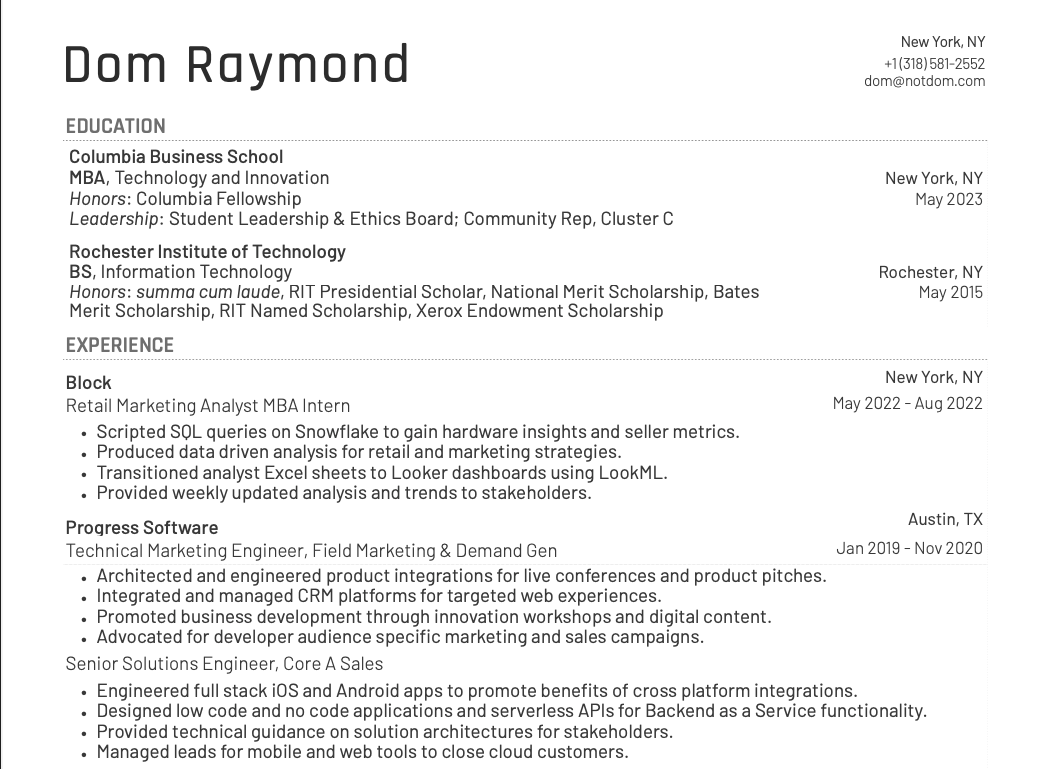
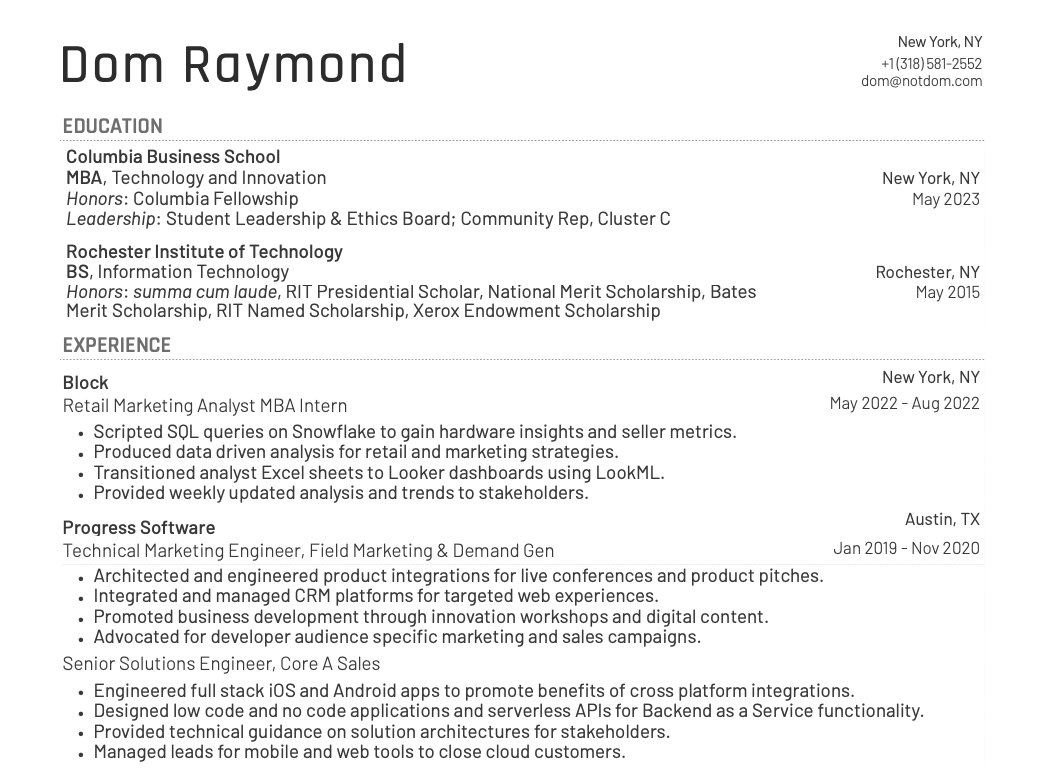
new style changes

diff --git a/app/components/Section/Section.js b/app/components/Section/Section.js
@@ -38,31 +38,31 @@ const Section = (props) => (
         <div className="desc dev">These are some projects that I have worked on, but they are not all of them! I am working on bringing more to this site both in the terms of content and design. Check them out and if they are linked, go check out the live site.</div>
         <br />
       </div>
-      <div className="minititle about">Web</div>
+      <div className="minititle about">Responsive Web</div>
 
       <span className="litems">
-        <WorkItem title="Charles &amp; Colvard" link="https://www.charlesandcolvard.com/" info="One of the more complex sites I have worked on. Not because it is a Magento 2 site (that is an inside joke about Magento 2), but because of it’s many pages and products. They are an innovative company selling moissanite and it was a pleasure staring at their jewelry while I coded the front end." imgs={["https://drive.google.com/uc?id=1Tz0DTOP9hy6gH3HYSVo5F2I11xmBjqj4","https://drive.google.com/uc?id=1FYR0iyHmm5u5QLUnVGbx98kk87CoI4cG"]}/>
-        <WorkItem title="Cree" link="https://www.cree.com/" info="One of the first large enterprise websites I worked on. Many developers and designers spent many hours creating this and their regional and division sites. Custom Frontend on a Mangento 1 backend. " imgs={["https://drive.google.com/uc?id=1YqWtYFUmpX641sJeXex6xx2032k8oarA","https://drive.google.com/uc?id=1nSnJUh_90owT3q9PWTH4F7De8oBj_pru"]}/>
-        <WorkItem title="Rivers Agency" link="https://riversagency.com/" info="This was my employer before Oracle. Many of the sites you see on this site were created there. One of the last projects I worked on while I was there was coding the revamp of the site. Custom frontend on top of a Wordpress backend." imgs={["https://drive.google.com/uc?id=1VLHkx4uq5T7g-dYUx7367NQoH4Vus8SF","https://drive.google.com/uc?id=1h12qi7T2rsfW5Usd2zHxrU_gCAAr9KQg"]}/>
-        <WorkItem title="Smarties Store" link="https://smartiesstore.com/" info="I love this candy, so I was very excited when I got to work on it. The ladies at smarties needed a new simpler site to sell their wares. It has a Shopify backend and I created the category and product pages as well as many other random ones." imgs={["https://drive.google.com/uc?id=1_wiR7jrLZNMCtcdbI8FfGk_JoXbi8fZH","https://drive.google.com/uc?id=1PybQLFx8TjoHMQYInfJaQiDHwwNqr_yW"]}/>
-        <WorkItem title="NAPSACC" link="https://gonapsacc.org/" info="This site has a backend that I cannot recall, but I do know that it was old. With a nonprofit sized budget we revamped the site and made it more responsive on mobile." imgs={["https://drive.google.com/uc?id=1BZaua050PKpYu4guq4o0EB5KJeLHst6w","https://drive.google.com/uc?id=1wx8w5Zm9mwa7N0tLg0avrVWUK6zCbKKt"]}/>
-        <WorkItem title="Fantastic Sams" link="https://www.fantasticsams.com/" info="A site on top of Drupal that needed a little of TLC. I worked mainly on UI tweaks and bug fixes to make the site more functional and responsive. " imgs={["https://drive.google.com/uc?id=1ZzpGQmrDr8892FWAGM0OuWLBaNEnq1cq","https://drive.google.com/uc?id=1nbjXHcPW8Tva81uCNnHD9D9AY7ejUJq1"]}/>
+        <WorkItem title="Charles &amp; Colvard" link="https://www.charlesandcolvard.com/" info="One of the more complex sites I have worked on. Not because it is a Magento 2 site (that is an inside joke about Magento 2), but because of it’s many pages and products. They are an innovative company selling moissanite and it was a pleasure staring at their jewelry while I coded the front end." imgs={["https://drive.google.com/thumbnail?id=1Tz0DTOP9hy6gH3HYSVo5F2I11xmBjqj4&sz=w1000","https://drive.google.com/thumbnail?id=1FYR0iyHmm5u5QLUnVGbx98kk87CoI4cG&sz=w1000"]}/>
+        <WorkItem title="Cree" link="https://www.cree.com/" info="One of the first large enterprise websites I worked on. Many developers and designers spent many hours creating this and their regional and division sites. Custom Frontend on a Mangento 1 backend. " imgs={["https://drive.google.com/thumbnail?id=1YqWtYFUmpX641sJeXex6xx2032k8oarA&sz=w1000","https://drive.google.com/thumbnail?id=1nSnJUh_90owT3q9PWTH4F7De8oBj_pru&sz=w1000"]}/>
+        <WorkItem title="Rivers Agency" link="https://riversagency.com/" info="This was my employer before Oracle. Many of the sites you see on this site were created there. One of the last projects I worked on while I was there was coding the revamp of the site. Custom frontend on top of a Wordpress backend." imgs={["https://drive.google.com/thumbnail?id=1VLHkx4uq5T7g-dYUx7367NQoH4Vus8SF&sz=w1000","https://drive.google.com/thumbnail?id=1h12qi7T2rsfW5Usd2zHxrU_gCAAr9KQg&sz=w1000"]}/>
+        <WorkItem title="Smarties Store" link="https://smartiesstore.com/" info="I love this candy, so I was very excited when I got to work on it. The ladies at smarties needed a new simpler site to sell their wares. It has a Shopify backend and I created the category and product pages as well as many other random ones." imgs={["https://drive.google.com/thumbnail?id=1_wiR7jrLZNMCtcdbI8FfGk_JoXbi8fZH&sz=w1000","https://drive.google.com/thumbnail?id=1PybQLFx8TjoHMQYInfJaQiDHwwNqr_yW&sz=w1000"]}/>
+        <WorkItem title="NAPSACC" link="https://gonapsacc.org/" info="This site has a backend that I cannot recall, but I do know that it was old. With a nonprofit sized budget we revamped the site and made it more responsive on mobile." imgs={["https://drive.google.com/thumbnail?id=1BZaua050PKpYu4guq4o0EB5KJeLHst6w&sz=w1000","https://drive.google.com/thumbnail?id=1wx8w5Zm9mwa7N0tLg0avrVWUK6zCbKKt&sz=w1000"]}/>
+        <WorkItem title="Fantastic Sams" link="https://www.fantasticsams.com/" info="A site on top of Drupal that needed a little of TLC. I worked mainly on UI tweaks and bug fixes to make the site more functional and responsive. " imgs={["https://drive.google.com/thumbnail?id=1ZzpGQmrDr8892FWAGM0OuWLBaNEnq1cq&sz=w1000","https://drive.google.com/thumbnail?id=1nbjXHcPW8Tva81uCNnHD9D9AY7ejUJq1"]}/>
 
       </span>
       <br />
-      <div className="minititle about">Apps</div>
+      <div className="minititle about">Mobile Apps</div>
 
       <span className="litems">
-        <WorkItem title="Blender Monitor" info="A large blender company wanted a way to expand their existing capabilities for corporate customers by integrating the Cloud into their blenders. By connecting the blenders to the cloud they can track a number of metrics and provide predictive analysis for maintenance and other interests." imgs={["https://drive.google.com/uc?id=1KpdhEDU4iPpokMzPklvYlX_ikIphZPvY","https://drive.google.com/uc?id=1AlUcEc_7lmSvaA6qCIiP0ARtpNvl3fC1","https://drive.google.com/uc?id=1HZk6PIHAUtpIoP6d0-_4qQs63c8MI0J6","https://drive.google.com/uc?id=1FGhaUwx4uWkmD-M8NgYDtYYUJYhYi6bd"]}/>
-        <WorkItem title="Prospect Finder" info="An insurance provider wanted a way for an agent to see all potential clients in a certain area, and see at a glance their potential for buying certain products. The potential was based on analytics from their existing client profiles." imgs={["https://drive.google.com/uc?id=13758RFb8YpbTvBMbWhrR2TNL31Dfyr0W","https://drive.google.com/uc?id=1uttGpED9bjm5THQ_7Uz60Ix0XXQiy3RZ"]}/>
-        <WorkItem title="Chatbot HRM" info="A client wanted an app they could give to managers so the could easily track payments and access human resource management functions. All functionality was initiated through the bot and all transactions were available either through the app or through existing channels." imgs={["https://drive.google.com/uc?id=1Qrq5NqccBcqiBtI8lLsEQNN4W2mUUT7K","https://drive.google.com/uc?id=1wxhlZqW_8UmfiE2F2CgiKto6g9NWD_Qj","https://drive.google.com/uc?id=1u7uQVDiC_9lL4PTiKdWYlx8SbmUSgkiq"]}/>
+        <WorkItem title="Blender Monitor" info="A large blender company wanted a way to expand their existing capabilities for corporate customers by integrating the Cloud into their blenders. By connecting the blenders to the cloud they can track a number of metrics and provide predictive analysis for maintenance and other interests." imgs={["https://drive.google.com/thumbnail?id=1KpdhEDU4iPpokMzPklvYlX_ikIphZPvY","https://drive.google.com/thumbnail?id=1AlUcEc_7lmSvaA6qCIiP0ARtpNvl3fC1","https://drive.google.com/thumbnail?id=1HZk6PIHAUtpIoP6d0-_4qQs63c8MI0J6","https://drive.google.com/thumbnail?id=1FGhaUwx4uWkmD-M8NgYDtYYUJYhYi6bd"]}/>
+        <WorkItem title="Prospect Finder" info="An insurance provider wanted a way for an agent to see all potential clients in a certain area, and see at a glance their potential for buying certain products. The potential was based on analytics from their existing client profiles." imgs={["https://drive.google.com/thumbnail?id=13758RFb8YpbTvBMbWhrR2TNL31Dfyr0W","https://drive.google.com/thumbnail?id=1uttGpED9bjm5THQ_7Uz60Ix0XXQiy3RZ"]}/>
+        <WorkItem title="Chatbot HRM" info="A client wanted an app they could give to managers so the could easily track payments and access human resource management functions. All functionality was initiated through the bot and all transactions were available either through the app or through existing channels." imgs={["https://drive.google.com/thumbnail?id=1Qrq5NqccBcqiBtI8lLsEQNN4W2mUUT7K","https://drive.google.com/thumbnail?id=1wxhlZqW_8UmfiE2F2CgiKto6g9NWD_Qj","https://drive.google.com/thumbnail?id=1u7uQVDiC_9lL4PTiKdWYlx8SbmUSgkiq"]}/>
 
       </span>
       <br />
-      <div className="minititle about">Other</div>
+      <div className="minititle about">Cloud Platforms</div>
 
       <span className="litems">
-        <WorkItem title="IBM Mobile First" info="My first job out of college, I worked on the development team for IBM mobile application building platform. MobileFirst provided a framework that enabled the development, optimization, integration, and management of secure mobile apps. It allowed for experiences on   iOS, Android, Windows, and the Web using capabilities such as development, testing, back-end connections, push notifications, offline mode, update, security, analytics, monitoring, and application publishing." imgs={["https://www.ibm.com/developerworks/community/blogs/5fdcd114-179e-4a1f-be70-3dbcc261a4da/resource/BLOGS_UPLOADED_IMAGES/IBMMobileFirst.png"]}/>
+        <WorkItem title="IBM Mobile First" info="My first job out of college, I worked on the development team for IBM mobile application building platform. MobileFirst provided a framework that enabled the development, optimization, integration, and management of secure mobile apps. It allowed for experiences on   iOS, Android, Windows, and the Web using capabilities such as development, testing, back-end connections, push notifications, offline mode, update, security, analytics, monitoring, and application publishing." imgs={["https://adtmag.com/articles/2016/06/23/~/media/ECG/adtmag/Images/2016/06/mobilefirst_experience.png"]}/>
         <WorkItem title="This site" info="I designed and coded this site myself. With the exception for the websites that goes for the content too. The websites were designed by graphic designers at Rivers Agency, but I had to turn their vision into reality by coding them. I will continue to update the site. I already have a pipeline of content!" imgs={[site]}/>
       </span>
       </Element>
@@ -85,7 +85,7 @@ const Section = (props) => (
 
       </div>
       <span className="litems">
-        <ContactItem title="Contact" info="This is where a info is going fmi."/>
+        <ContactItem title="Contact" info="This is where info is going fmi."/>
       </span>
       </Element>
 

diff --git a/app/components/Section/style.scss b/app/components/Section/style.scss
@@ -1,5 +1,5 @@
 $blue: #57A6F8;
-$green:#387C44;
+$green:#404F36;
 $yellow: #EFD565;
 $orange:#E2A148;
 $red:#EE6A64;
@@ -13,6 +13,7 @@ $mini: 414px;
 
 .section {
   width: 100%;
+  padding-right: 1em;
   //height: 3em;
   display: inline-block;
   flex-flow: row wrap;
@@ -20,11 +21,11 @@ $mini: 414px;
   .title-wrapper{
     width: 100%;
     display: inline-block;
-    //padding-right: 1em;
+    padding-bottom: 1em;
     .title {
-      font-family: 'Rajdhani', Helvetica, Arial, sans-serif;
+      font-family: 'Bungee Shade', Helvetica, Arial, sans-serif;
       font-size: 2.5em;
-      font-weight: 600;
+      font-weight: 400;
       text-align: right;
       color: $green;
     }
@@ -32,7 +33,7 @@ $mini: 414px;
       font-family: 'Barlow', Helvetica, Arial, sans-serif;
       font-size: 1.1em;
       color:darkslategray;
-      font-weight: 600;
+      font-weight: 500;
       text-align: right;
       width: 80%;
       float: right;
@@ -49,11 +50,11 @@ $mini: 414px;
   .minititle {
     display: block;
     font-family: 'Rajdhani', Helvetica, Arial, sans-serif;
-    font-weight: 300;
-    color:$green;
+    font-weight: 800;
+    color:$orange;
     font-size: 1.5em;
     text-align: right;
-    margin: 0.2 0 0 0;
+    margin: .2 0 0 0;
 
   }
 

diff --git a/app/components/WorkItem/style.scss b/app/components/WorkItem/style.scss
@@ -1,5 +1,5 @@
 $blue: #57A6F8;
-$green:#387C44;
+$green:#404F36;
 $yellow: #EFD565;
 $orange:#E2A148;
 $red:#EE6A64;
@@ -14,26 +14,31 @@ $mini: 414px;
   display: flex;
   flex-flow: row wrap;
   position: relative;
-  margin: 2em 0 5em 0;
+  margin: 2em 0 2.5em 0;
+  padding: 0 0 1.5em 0;
+  border-bottom: .1em solid white;
   a{
     text-decoration: none;
   }
   .pwords{
     width: 100%;
-    padding:0.3em 0;
+    padding:1em 0 0 0;
     text-align: right;
     .pheader {
       font-family: 'Rajdhani', Helvetica, Arial, sans-serif;
-      color:$green;
+      padding-right: .1em;
+      color:darkslategray;
       font-weight: 500;
-      font-size: 1.8em;
+      font-size: 2em;
       &:hover{
-        color: $green;
+        color: $orange;
+        font-weight: 800;
       }
     }
   
     .pinfo {
       padding-top: .4em;
+      text-align: justify;
       float: right;
       border-top-right-radius: .2em;
       font-family: 'Barlow', Helvetica, Arial, sans-serif;

diff --git a/app/components/AboutItem/style.scss b/app/components/AboutItem/style.scss
@@ -1,5 +1,5 @@
 $blue: #57A6F8;
-$green:#387C44;
+$green:#404F36;
 $yellow: #EFD565;
 $orange:#E2A148;
 $red:#EE6A64;
@@ -16,21 +16,26 @@ $mini: 414px;
   display: flex;
   flex-flow: row wrap;
   position: relative;
-  margin: 2em 0 5em 0;
+  margin: 2em 0 2.5em 0;
+  padding: 0 0 1.5em 0;
+  border-bottom: .1em solid white;
   .pwords{
     width: 40%;
-    //padding:0.3em 1.2em;
+    padding:0.3em 0 0 0;
     text-align: right;
 
     .pheader {
+      padding-right: .1em;
       font-family: 'Rajdhani', Helvetica, Arial, sans-serif;
-      font-weight: 600;
+      font-weight: 500;
+      text-decoration: underline .12em $orange;
       color: darkslategray;
       font-size: 1.8em;      
     }
   
     .pinfo {
       padding-top: .4em;
+      text-align: justify;
       float: right;
       border-top-right-radius: .2em;
       font-family: 'Barlow', Helvetica, Arial, sans-serif;

diff --git a/app/components/Header/style.scss b/app/components/Header/style.scss
@@ -1,5 +1,5 @@
 $blue: #57A6F8;
-$green:#387C44;
+$green:#404F36;
 $yellow: #EFD565;
 $orange:#E2A148;
 $red:#EE6A64;
@@ -80,13 +80,13 @@ $mini: 414px;
     cursor: pointer;
     outline: 0;
     font-family: 'Bungee Hairline', Helvetica, Arial, sans-serif;
-    font-weight: bold;
-    font-size: 1.4em;
+    font-weight: 800;
+    font-size: 1.5em;
     letter-spacing: 0;
     color: darkslategray;
     position: relative;
     &:hover:not(.selected) {
-      color: darkslategray;
+      color: $orange;
       font-size: 1.36em;
       letter-spacing: 0.1em;
       font-family: 'Bungee Outline', Helvetica, Arial, sans-serif;
@@ -183,6 +183,5 @@ $mini: 414px;
 }
 
 #header-border{
-  border-top: 0.15em dotted lightgray;
-  border-radius: 2em;
+  border-top: .2em double lightgray;
 }

diff --git a/app/components/Header/Header.js b/app/components/Header/Header.js
@@ -83,9 +83,6 @@ class Header extends React.Component { // eslint-disable-line react/prefer-state
               <img className="aimg" src={arrow} alt="simple logo" />
               <img className="aimg" src={arrow} alt="simple logo" />
               <img className="aimg" src={arrow} alt="simple logo" />
-              <img className="aimg" src={arrow} alt="simple logo" />
-              <img className="aimg" src={arrow} alt="simple logo" />
-              <img className="aimg" src={arrow} alt="simple logo" />
           </div>
           <div className="nav-bar" onScroll={(e)=>{this.moveBar(e)}}>
             <div>

diff --git a/app/components/ContactItem/style.scss b/app/components/ContactItem/style.scss
@@ -1,5 +1,5 @@
 $blue: #57A6F8;
-$green:#387C44;
+$green:#404F36;
 $yellow: #EFD565;
 $orange:#E2A148;
 $red:#EE6A64;

diff --git a/app/styles/global-styles.scss b/app/styles/global-styles.scss
@@ -1,5 +1,5 @@
 $blue: #57A6F8;
-$green:#387C44;
+$green:#404F36;
 $yellow: #EFD565;
 $orange:#E2A148;
 $red:#EE6A64;
